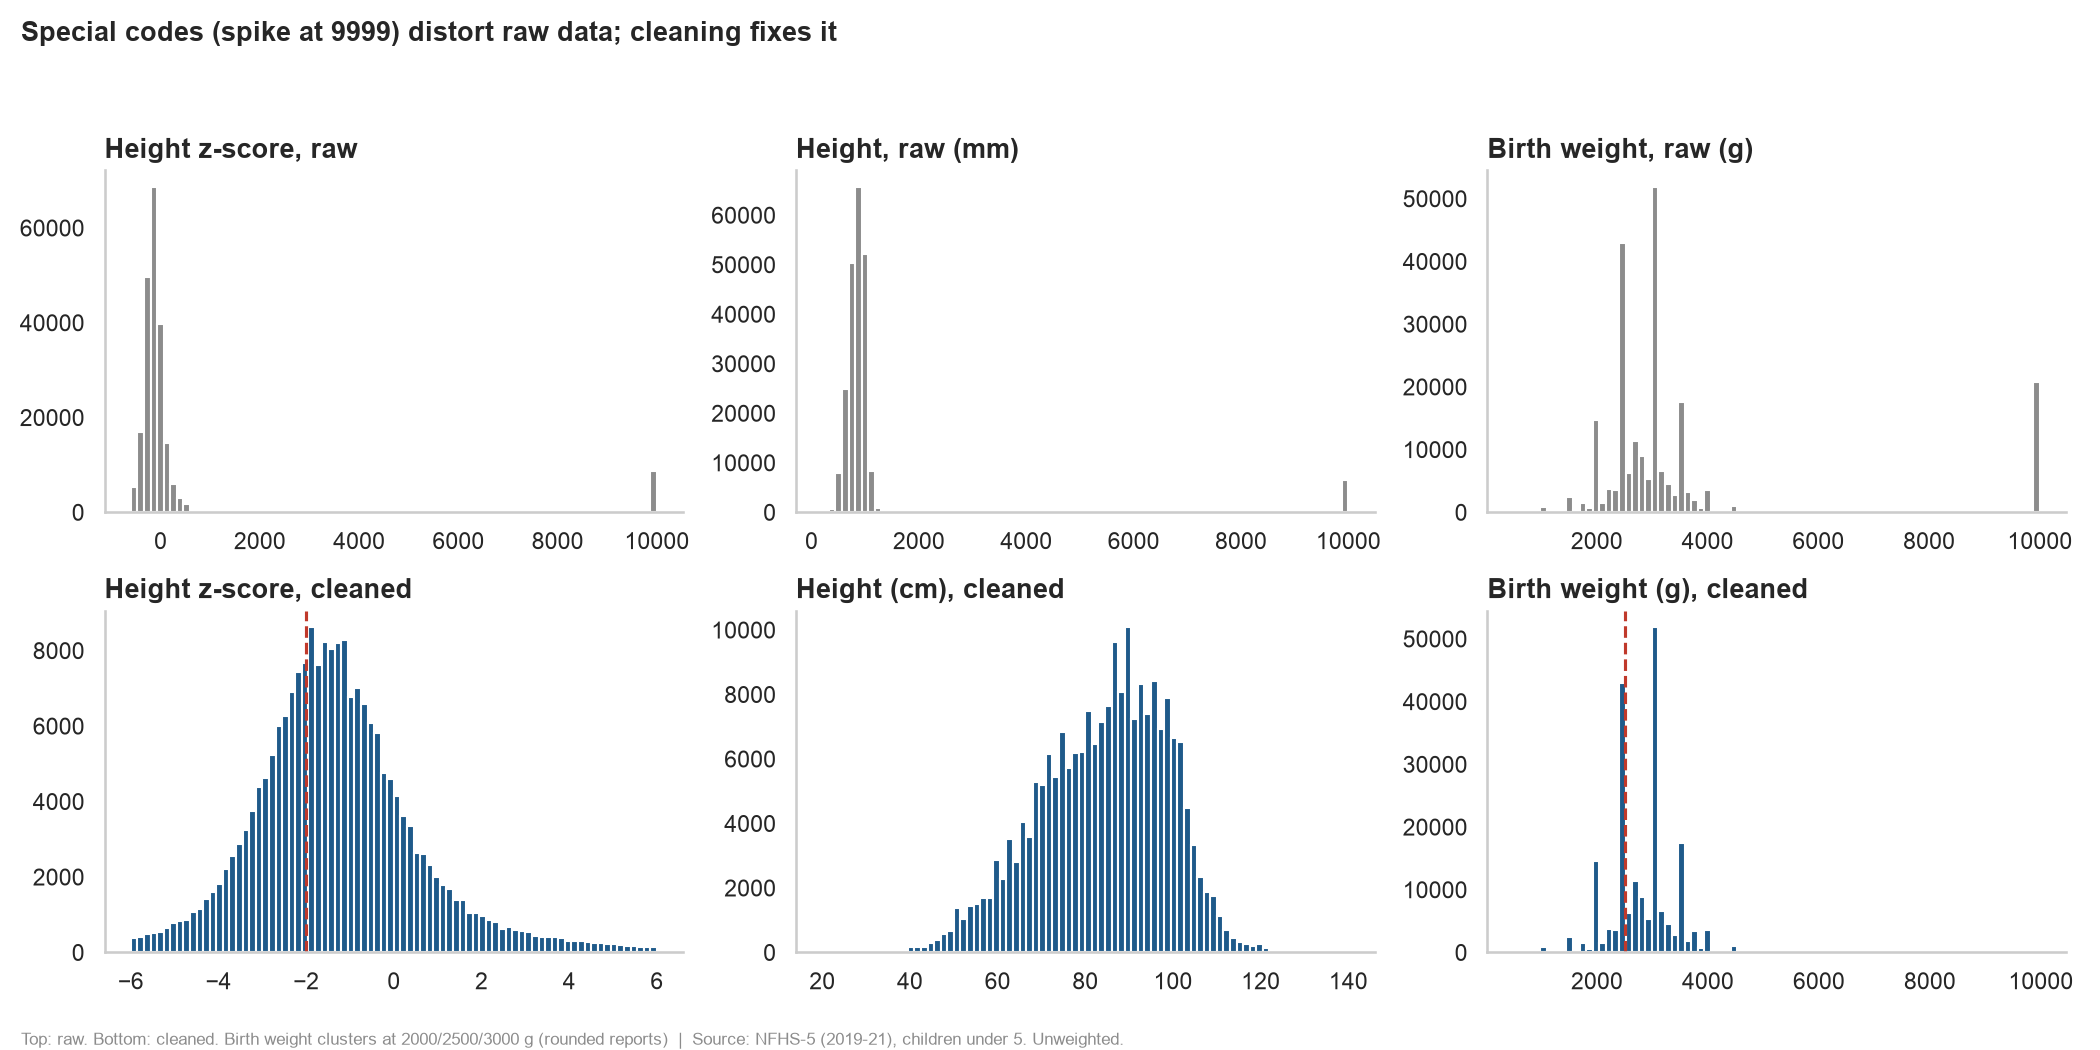
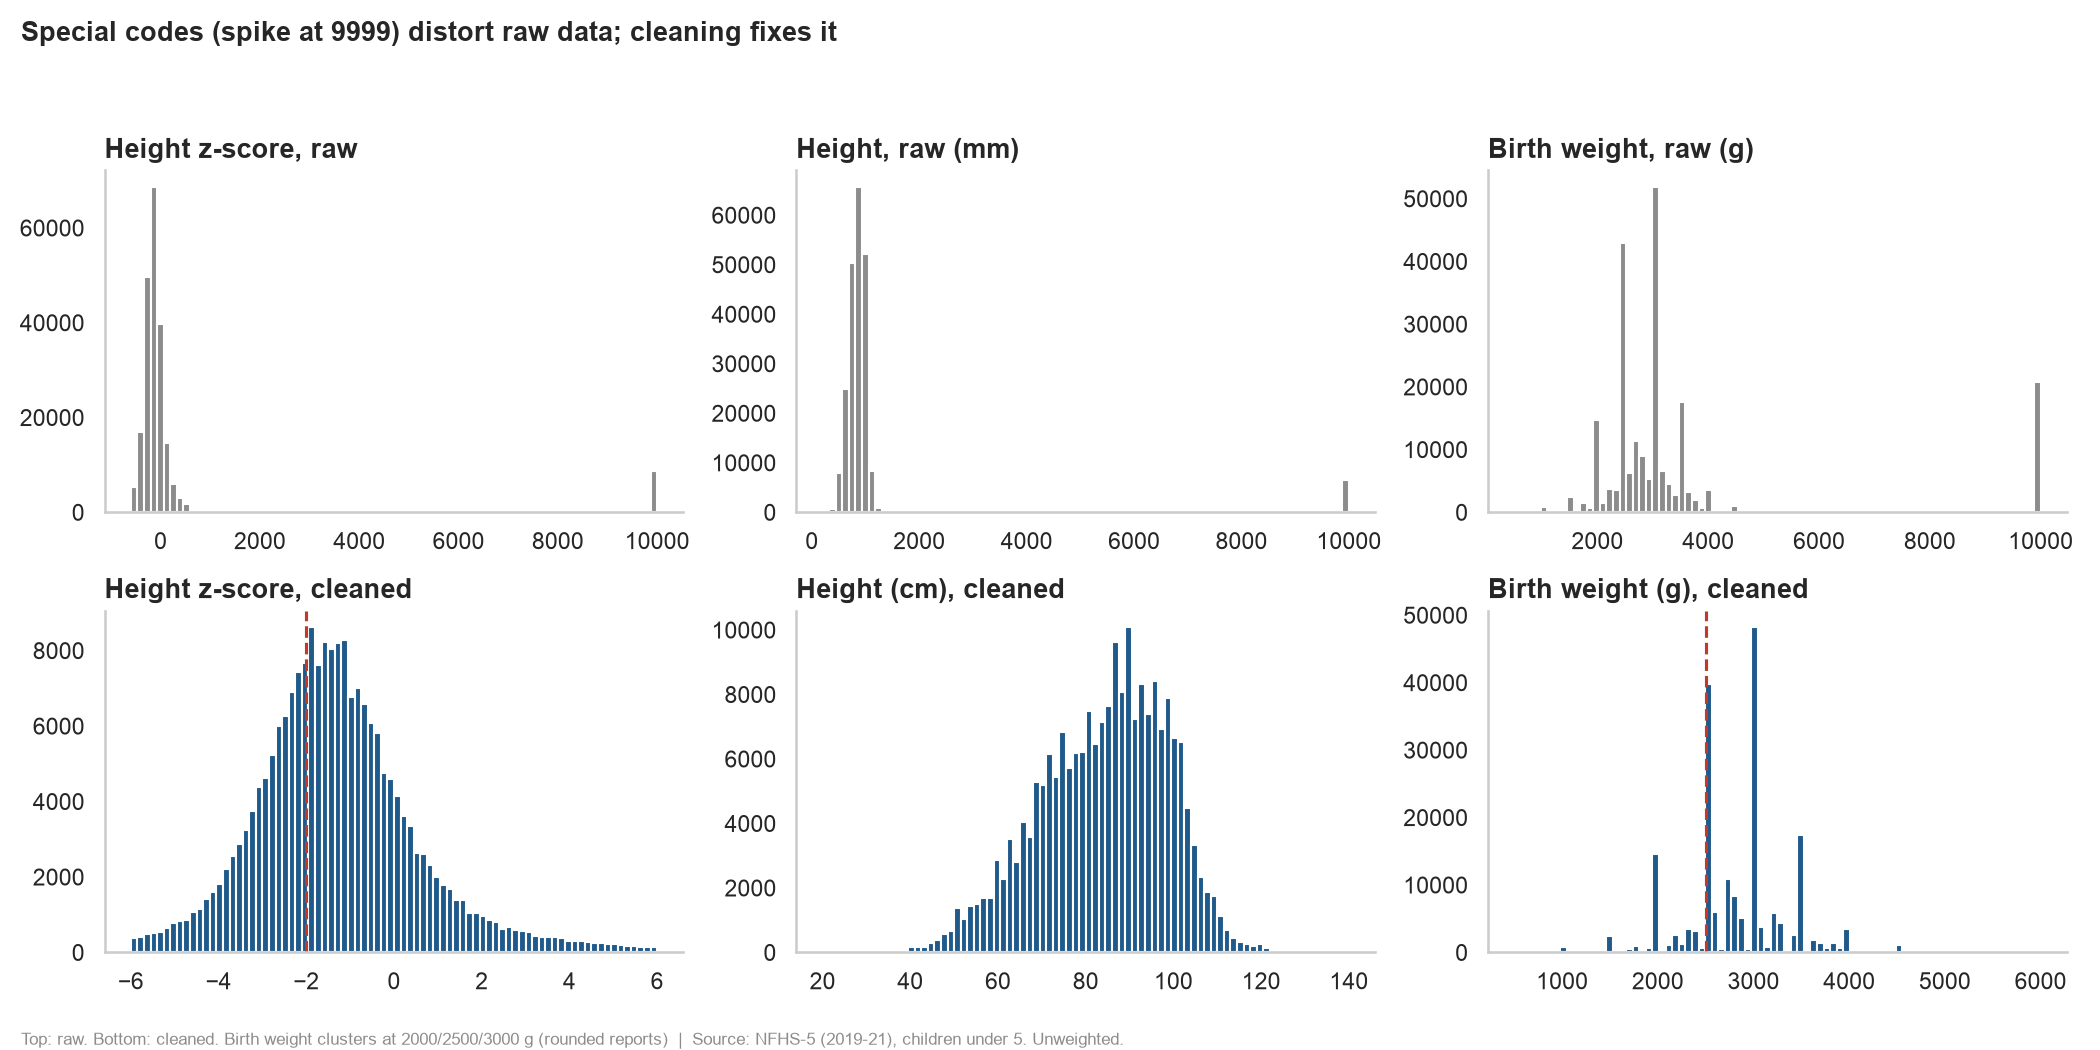
A: cap birth weight 500-6000 g; note DHS pre-flagged implausible values

diff --git a/src/01_cleaning.py b/src/01_cleaning.py
@@ -71,6 +71,11 @@ for col, codes in SPECIAL_CODES.items():
 for col, codes in SPECIAL_CODES.items():
     df[col] = df[col].replace(codes, np.nan)
 
+# Biologically implausible birth weights (e.g. 9,980 g) -> missing
+bw_bad = df["birth_weight_g"].notna() & ~df["birth_weight_g"].between(500, 6000)
+print("Implausible birth weights set to NaN:", int(bw_bad.sum()))
+df.loc[bw_bad, "birth_weight_g"] = np.nan
+
 # ---- 4. Unit conversions ----
 # DHS anthropometric z-scores have two implied decimal places.
 for col in ["haz", "waz", "whz", "baz"]:

diff --git a/notes/A_cleaning_notes.md b/notes/A_cleaning_notes.md
@@ -17,7 +17,8 @@
 - **What we did:** Applied screening limits to identify implausible z-scores: HAZ (-6 to +6), WAZ (-6 to +5), WHZ (-5 to +5) and BAZ (-5 to +5).
 - **Why:** Values outside these limits may indicate measurement or recording problems and should not be treated as ordinary growth measurements.
 - **Alternative:** Keep all values without screening or remove entire child records. We screened the affected z-score values instead.
-- **Audit result:** No values outside these limits remained in the cleaned z-score variables. These are screening thresholds and should be described as such.
+- **Audit result:** Our WHO-range check found 0 extra cases because DHS had already flagged implausible measurements before releasing the data: code 9998 (z-score outside WHO limits) and 9996 (height/weight out of range). We convert these codes to NaN first. DHS-flagged counts: HAZ 5,045 (9998), WHZ 12,844 (9996 + 9998). In total 6.91% of children have at least one flagged measurement.
+- **Birth weight:** values outside 500–6,000 g (e.g. 9,980 g) are biologically implausible and set to NaN (n = 137).
 
 ### 4. Dropped columns
 
